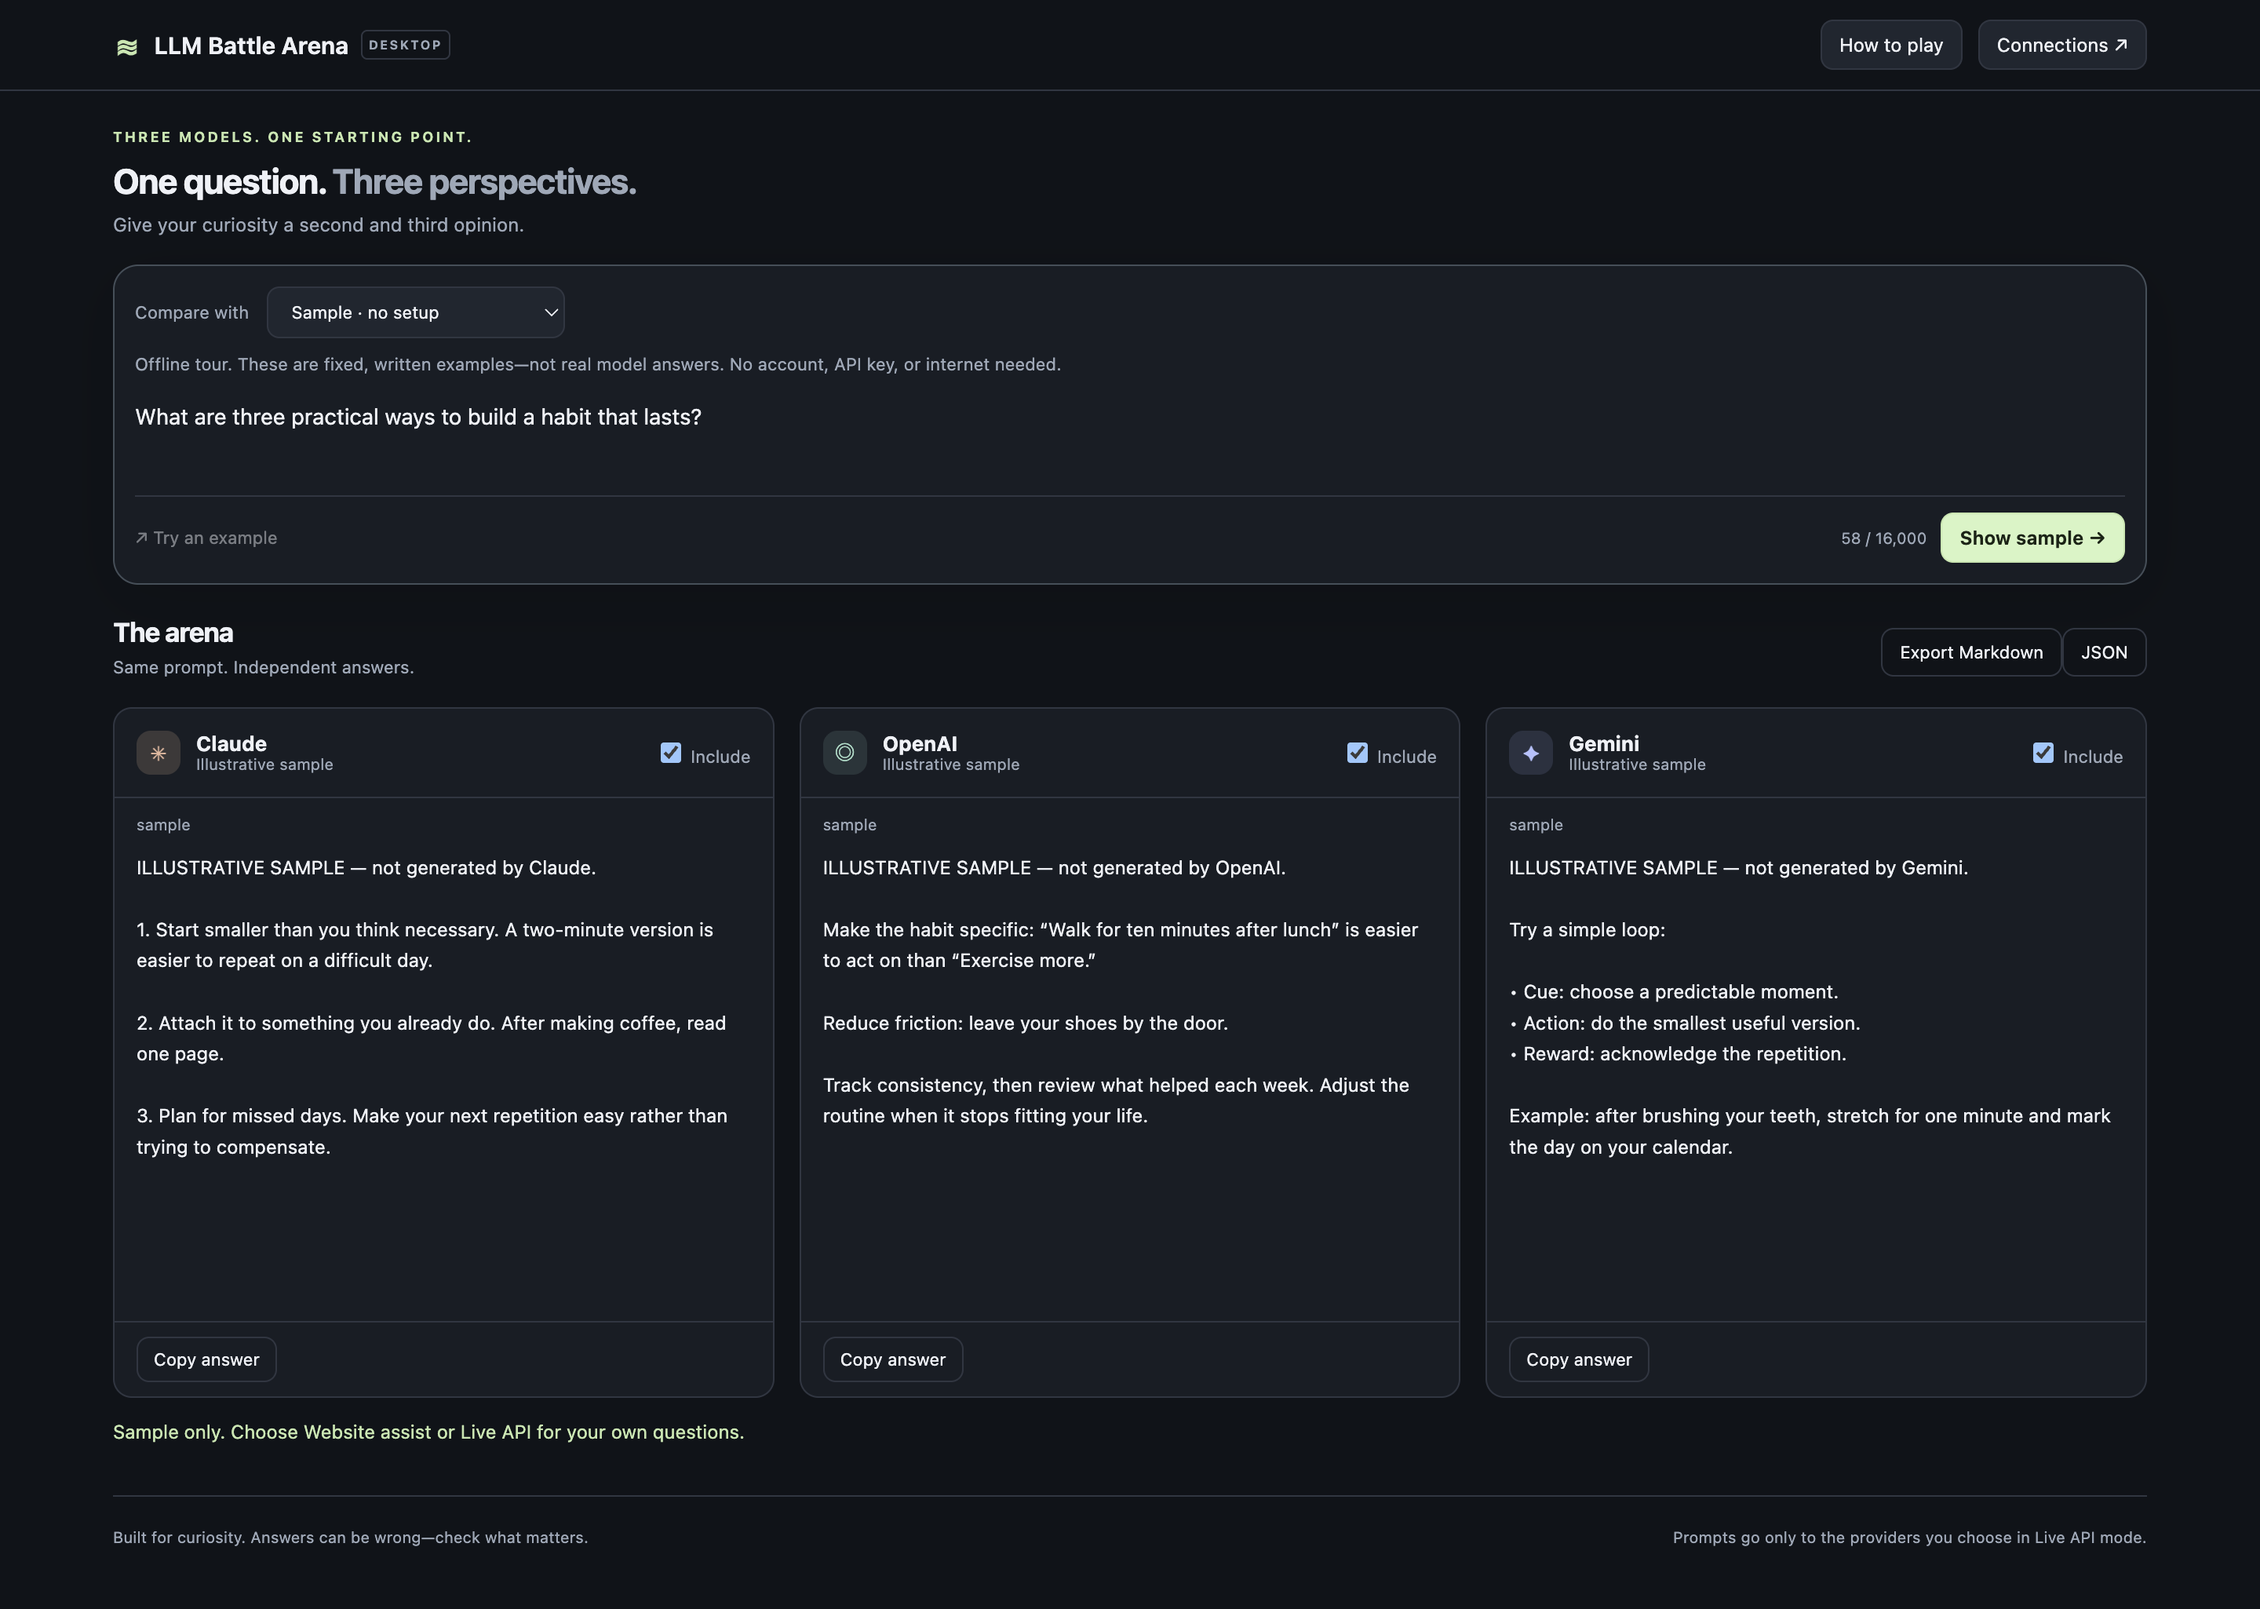
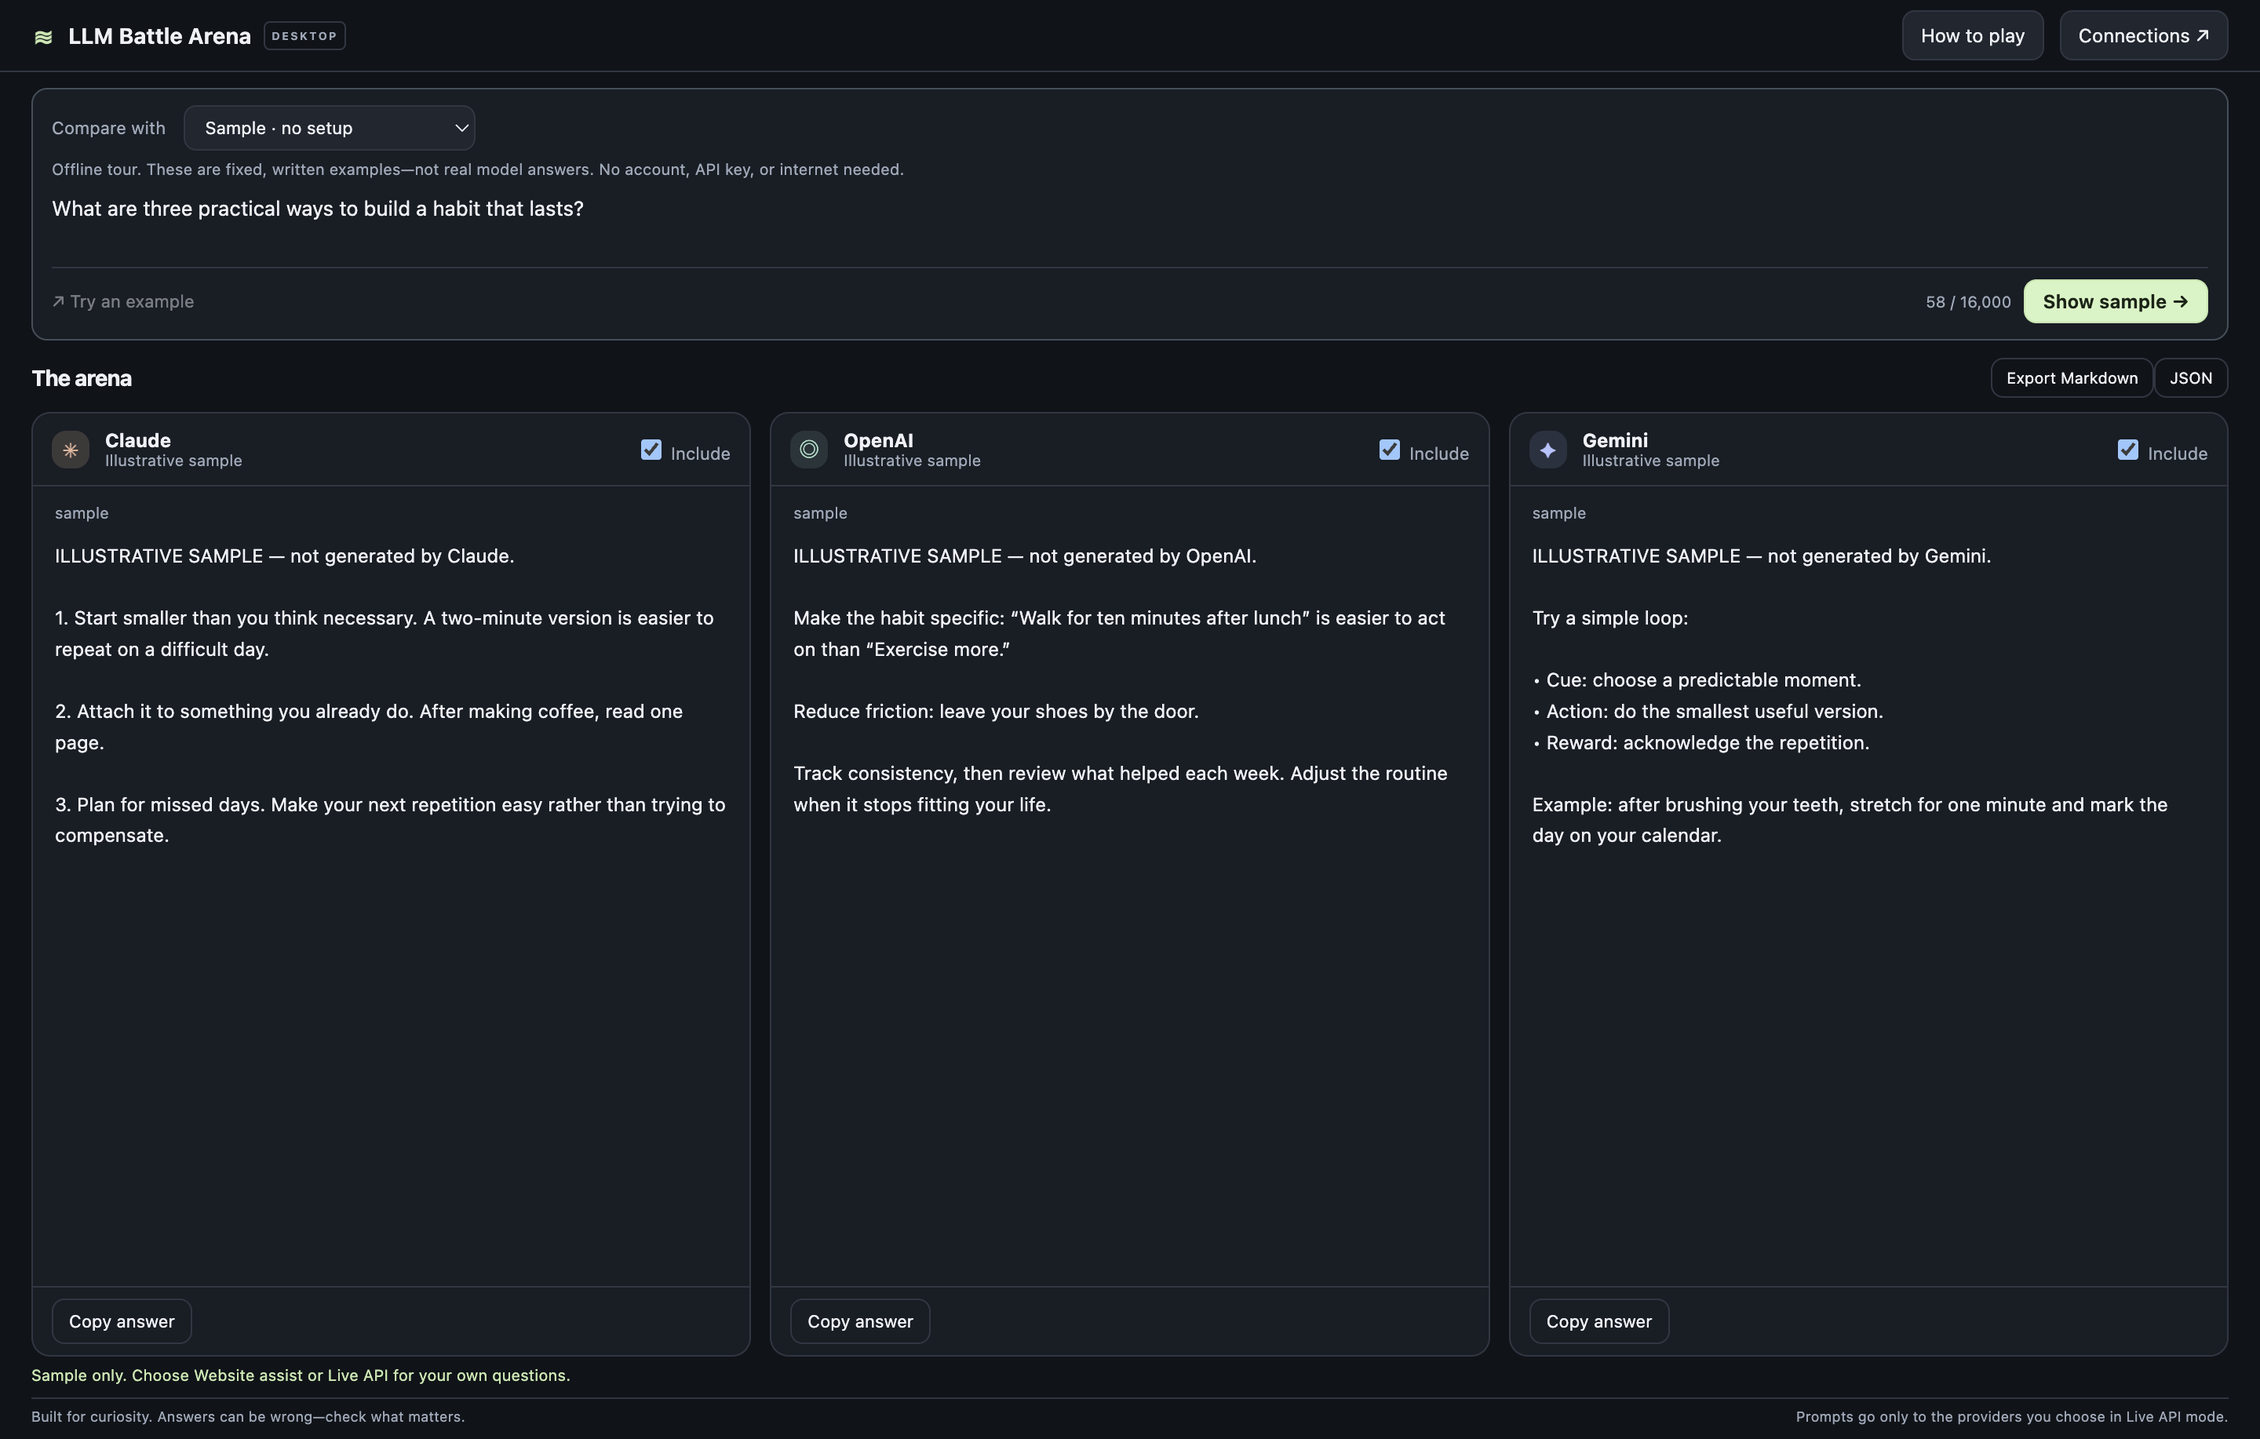
Give answers the workspace and remove oversized header area

diff --git a/src/styles.css b/src/styles.css
@@ -27,3 +27,16 @@ main{padding-top:20px}.eyebrow{font-size:9px;letter-spacing:1.4px}
 .answer{font-size:12px;line-height:1.65;padding:12px 14px}.status{font-size:10px;padding:11px 14px 0}
 .card-actions{padding:9px 14px}.manual-answer{font-size:12px}
 .dialog-title h2{font-size:21px}.help-steps{font-size:13px}
+
+/* Workspace layout: no hero section; answers fill the remaining window. */
+body{height:100vh;overflow:hidden}header{height:46px;padding:0 20px}.brand{font-size:14px}.brand-icon{font-size:23px}.tag{font-size:7px}
+main{height:calc(100vh - 46px);max-width:none;padding:10px 20px 8px;display:flex;flex-direction:column;min-height:0}
+.composer{padding:10px 12px;flex-shrink:0;border-radius:10px;box-shadow:none}.toolbar{gap:10px}.toolbar select{padding:6px 9px}
+#mode-note{margin:5px 0;font-size:10px;line-height:1.35}
+#prompt{height:48px;min-height:48px;max-height:48px;font-size:13px;line-height:1.4;padding:4px 0}
+.composer-bottom{padding-top:7px;gap:8px}.composer-bottom button{padding-top:6px;padding-bottom:6px}
+.results-heading{margin:11px 0 9px;flex-shrink:0}h2{font-size:14px}.results-heading p{display:none}.results-heading button{padding:6px 9px;font-size:10px}
+.cards{flex:1;min-height:140px;gap:12px}.card{height:100%;min-height:0}.card-top{padding:10px 12px}.avatar{height:24px;width:24px}.card h3{font-size:12px}.card-actions{padding:7px 12px}
+#notice{flex-shrink:0;min-height:15px;margin:5px 0 0;font-size:10px;line-height:1.4}
+footer{flex-shrink:0;margin-top:6px;padding:5px 0 0;font-size:9px;line-height:1.4}
+@media(max-width:700px){body{height:auto;overflow:auto}main{height:auto}.cards{display:grid;flex:auto}.card{height:400px}footer{display:block}}

diff --git a/index.html b/index.html
@@ -9,7 +9,6 @@
 <body>
 <header><a class="brand" href="#"><span class="brand-icon">≋</span> LLM Battle Arena <span class="tag">DESKTOP</span></a><div class="header-actions"><button id="help">How to play</button><button id="connections">Connections <span aria-hidden="true">↗</span></button></div></header>
 <main>
-<div class="intro"><span class="eyebrow">THREE MODELS. ONE STARTING POINT.</span><h1>One question. <span>Three perspectives.</span></h1><p>Give your curiosity a second and third opinion.</p></div>
 <section class="composer" aria-label="Comparison setup">
 <div class="toolbar"><label>Compare with <select id="mode"><option value="sample">Sample · no setup</option><option value="manual">Website assist · no API keys</option><option value="live">Live API · automatic</option></select></label><label id="limit-label">Output limit <select id="limit"><option value="2048">2,048 tokens</option><option value="4096" selected>4,096 tokens</option><option value="8192">8,192 tokens</option></select></label></div>
 <p id="mode-note" class="note"></p>

diff --git a/docs/DEVELOPMENT.md b/docs/DEVELOPMENT.md
@@ -86,7 +86,7 @@ The default branch is `main` in **YobieBenjamin/llm-battle-arena**. This reposit
 1. Update the version in `package.json` and the root/package entries in `package-lock.json`.
 2. Update `docs/RELEASE_NOTES.md` and the user guide for changed behavior.
 3. Run tests and manual checks. Commit and push to main.
-4. Tag the reviewed commit with the matching version, for example `git tag v2.1.0`, then push the tag.
+4. Tag the reviewed commit with the matching version, for example `git tag v2.1.1`, then push the tag.
 5. The **Desktop installers** workflow builds Windows x64, Windows ARM64, macOS ARM64, and macOS x64. All four build jobs must pass before publishing.
 6. The release job combines artifacts, produces `SHA256SUMS.txt`, and publishes GitHub Release downloads using the workflow token.
 7. Check the public release and README links. The download filenames remain stable across versions, so `/releases/latest/download/...` always selects the newest release.

diff --git a/docs/RELEASE_NOTES.md b/docs/RELEASE_NOTES.md
@@ -22,7 +22,7 @@ API usage may be billed by your providers. Chat website subscriptions and API ac
 ## Included
 
 - Standalone Mac/Windows app; no Git, Node, Python, or terminal needed for users.
-- Compact prompt box and independently scrolling question/answer areas.
+- Slim toolbar with no oversized title block; compact scrolling prompt and answer cards that fill the remaining window.
 - Side-by-side streamed answers, Stop, per-provider Retry, Copy, Markdown/JSON export.
 - OS-encrypted local keys, editable model IDs, and built-in How to play.
 - Plain-language installation, troubleshooting, privacy, and uninstall instructions.
